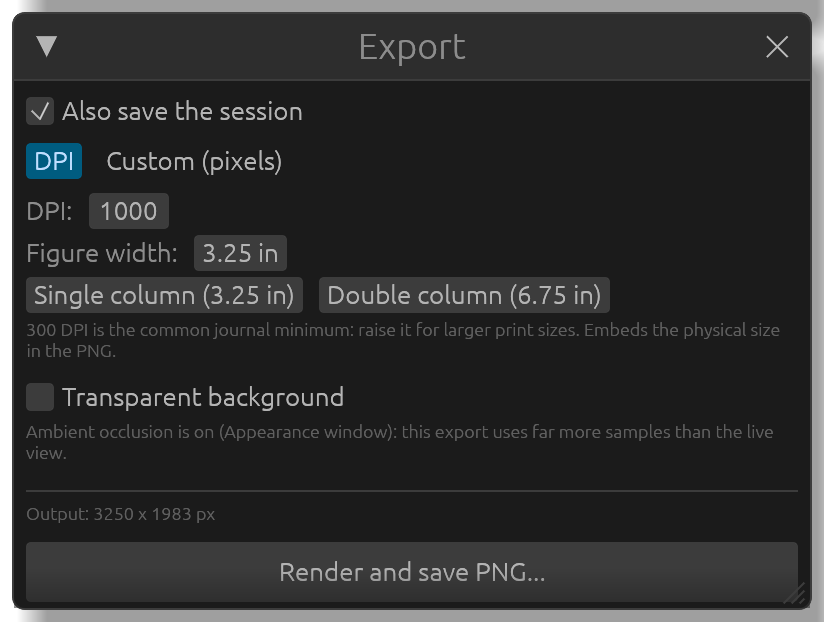
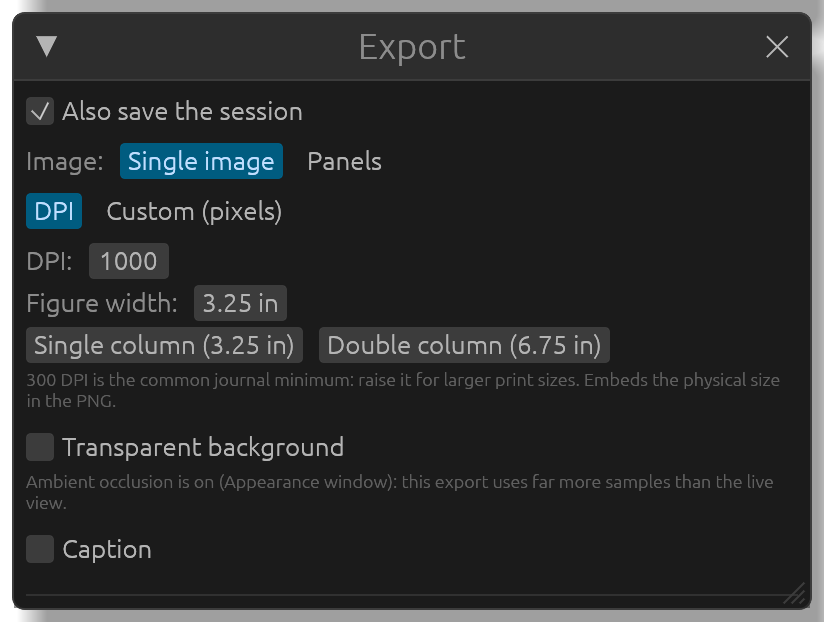
Guide: panel figures in Figures and videos; the caption font's license in every package
The Figures and videos chapter explains captions and panels (and panels
of several structures); Looking at a molecule, the views structures keep
and Keep the view; Sessions, that the figure is kept. The walkthrough
test checks the labels the chapter names and takes its two new
pictures; the Export window's picture is made again (no other picture
changed). Arimo-OFL.txt goes into the Windows, macOS and Linux packages,
and About names the font and its license.

Changed region(s): [[0.0303, 0.2138, 0.9709, 0.9469]]

diff --git a/crates/app/tests/guide.rs b/crates/app/tests/guide.rs
@@ -444,9 +444,72 @@ fn appearance_and_export() {
     settle(&mut guide);
     snap_tool_window(&mut guide, "appearance-window", "Appearance");
     click(&mut guide, "Export");
-    for label in ["Also save the session", "DPI", "Custom (pixels)", "Single column (3.25 in)", "Double column (6.75 in)", "Transparent background", "Render and save PNG...", "Render and save GIF..."] {
+    for label in ["Also save the session", "Image:", "Single image", "Panels", "DPI", "Custom (pixels)", "Single column (3.25 in)", "Double column (6.75 in)", "Transparent background", "Caption", "Render and save PNG...", "Render and save GIF..."] {
         sees(&guide, label);
     }
     settle(&mut guide);
     snap_tool_window(&mut guide, "export-window", "Export");
+}
+
+/// "Figures and videos", Panels: the OSLOs of ethane as a captioned grid.
+#[test]
+fn panels_of_orbitals() {
+    let mut guide = open_example("C2H6-OSLO-2CH3");
+    click(&mut guide, "Surfaces");
+    choose(&mut guide, "SCF orbitals", "OSLOs");
+    click(&mut guide, "Select all");
+    click(&mut guide, "Generate 9 orbital(s)");
+    frame(&mut guide, 0.45, 0.3, 0.75);
+    click(&mut guide, "Export");
+    click(&mut guide, "Panels");
+    for label in [
+        "Image:",
+        "Single image",
+        "Panels (9)",
+        "All surfaces",
+        "Captions",
+        "Full",
+        "Value and fragment",
+        "Text size:",
+        "Letters (a), (b), ...",
+        "Layout:",
+        "Automatic",
+        "Rows and columns",
+        "Panel shape:",
+        "Square",
+        "As the view",
+        "Gap:",
+        "Size:",
+        "Half page (3.25 in)",
+        "Full page (6.75 in)",
+        "Background:",
+        "White",
+        "Transparent",
+        "Render and save panels...",
+    ] {
+        sees(&guide, label);
+    }
+    assert!(guide.get_all(By::new().role(Role::ComboBox)).any(|n| n.value().as_deref() == Some("Add a panel")), "the Add a panel menu");
+    let captions = guide.state().panel_captions();
+    assert_eq!(captions[8], "OSLO 9 \u{b7} 1 CH3 + 2 CH3 \u{b7} FOLI 2.001");
+    click(&mut guide, "Value and fragment");
+    assert_eq!(guide.state().panel_captions()[8], "2.001 (CH3 + CH3)");
+    click(&mut guide, "Full");
+    // Only the Export window, so the picture shows it whole.
+    for window in ["Molecule", "Surfaces", "APOST-3D"] {
+        let ctx = guide.ctx.clone();
+        guide.state().set_window_collapsed(&ctx, window, true);
+    }
+    guide.run_steps(4);
+    assert!(guide.state().figure_preview_size().is_some(), "the preview is drawn");
+    settle(&mut guide);
+    snap_tool_window(&mut guide, "export-panels-window", "Export");
+    // The figure itself, as saved, scaled to the guide's width.
+    if let Some(dir) = images_dir() {
+        guide.state_mut().set_panel_figure(600, true, false);
+        let (w, h, pixels) = guide.state_mut().render_panel_figure().expect("the figure");
+        let image = image::RgbaImage::from_raw(w, h, pixels).unwrap();
+        let image = image::imageops::resize(&image, 1200, h * 1200 / w, image::imageops::FilterType::Lanczos3);
+        save(&dir, "panels-oslos", &image);
+    }
 }

diff --git a/crates/app/src/windows/about.rs b/crates/app/src/windows/about.rs
@@ -45,6 +45,12 @@ impl App {
                         .italics(),
                     );
                     ui.hyperlink_to("DOI: 10.1063/5.0206187", "https://doi.org/10.1063/5.0206187");
+                    ui.add_space(6.0);
+                    ui.label(
+                        egui::RichText::new("Figure captions use the Arimo font, by the Arimo Project Authors, under the SIL Open Font License 1.1, whose text comes with the program as Arimo-OFL.txt.")
+                            .small()
+                            .weak(),
+                    );
                     ui.add_space(8.0);
                     ui.separator();
                     ui.add_space(8.0);

diff --git a/docs/src/figures.md b/docs/src/figures.md
@@ -1,16 +1,44 @@
 # Figures and videos
 
-The **Export** window saves the current view, exactly as it is on screen (labels, values, legend, ambient occlusion and depth of field included), as a PNG image or as a looping animated GIF.
+The **Export** window saves the current view, exactly as it is on screen (labels, values, legend, ambient occlusion and depth of field included), as a PNG image, as a figure of several panels with captions, or as a looping animated GIF.
 
 <img class="window" src="images/export-window.png" alt="The Export window">
 
 ## Images
 
+With **Single image** chosen next to **Image:** (the default):
+
 - **DPI** (the default): give the resolution and the **Figure width:** in inches, or click **Single column (3.25 in)** or **Double column (6.75 in)**; the height follows the shape of the view. The physical size is stored in the PNG, so the figure comes in at the right size in a document. 300 DPI is the usual journal minimum.
 - **Custom (pixels)**: give the **Width:** and **Height:** in pixels, and a **Supersample:** factor (rendering at 2 or 4 times the size and scaling down smooths every edge).
 - **Transparent background**: no background, for putting the molecule on a slide or over another picture.
+- **Caption**: a caption below the image. Leave the field empty for the automatic one (the name of the surface shown, as in the panels below), or type your own; **Text size:** sets its size in points.
 
 The window shows the size of the image that will be made. Click **Render and save PNG...** and choose where to save it.
+
+## Panels: several orbitals in one figure
+
+Most figures of bonding analyses are grids of orbitals, all seen the same way, each with a caption: the OSLOs of a molecule with their FOLI, the effective fragment orbitals of a metal with their occupations. **Panels** makes such a figure in one step. Every panel is the current view with one surface shown alone, rendered exactly as a single image would be, so all the panels share the same orientation, zoom and look.
+
+<img src="images/panels-oslos.png" alt="The nine OSLOs of ethane as a 3 by 3 grid, each with its caption">
+
+1. Generate the orbitals you want (see [Orbitals and densities](orbitals.md)), turn and zoom the molecule as it should look in every panel.
+2. In **Export**, choose **Panels** next to **Image:**. Every surface of the structure becomes a panel, in the order of the **Surfaces** list. While **Panels** is chosen, a dashed frame in the view shows what a square panel holds.
+
+<img class="window" src="images/export-panels-window.png" alt="The Export window with Panels chosen: the preview of the figure, then the panels">
+
+3. The list under **Panels** sets the order (the arrows move a panel up or down, the cross removes it). **Add a panel** adds a surface again, or the structure as it is shown, and **All surfaces** adds every surface not in a panel yet.
+4. Each panel has a caption field. Left empty, it shows the automatic caption (in gray); type to give that panel your own text. With **Captions** ticked, the automatic caption is either **Full**, the name with its number ("OSLO 9 · 1 CH3 + 2 CH3 · FOLI 2.001", "EFO 10 α · 1 Fe · occ. 0.890"), or **Value and fragment**, the number with the fragments as papers often write it ("2.001 (CH3 + CH3)", "0.890 (Fe)"). Digits in chemical formulas are drawn as subscripts (CH₃), and an EFO the orbital file reproduces poorly says so ("fit 48%"). **Text size:** is in points; **Letters (a), (b), ...** adds a letter at the top left of every panel.
+5. **Layout:** is **Automatic** (about as many rows as columns: 3 x 3 for nine panels, 2 x 3 for five, the last row centered) or **Rows and columns**, set by hand; **Swap** turns a figure that runs across into one that runs down, or the reverse. **Panel shape:** is **Square** or **As the view**, and **Gap:** the space between panels, in percent of a panel's width.
+6. **Size:** is **DPI** (the resolution, 600 by default, and the **Figure width:**, the whole figure; **Half page (3.25 in)** and **Full page (6.75 in)** are the widths of one column and of a whole page in a two-column journal) or **Pixels** (the **Panel width:** of each panel). The text size in points follows the DPI.
+7. **Background:** is **White** (the default, whatever the view's background), **As the view**, or **Transparent**.
+
+The preview at the top of the window shows the figure as it will be saved, and follows every change: rotate the molecule, edit a caption, change the layout, and it is drawn again a moment later. Click it to see it larger in **Figure preview**. Then click **Render and save panels...** and choose where to save it. A large figure takes a few seconds: every panel is rendered at full size with ambient occlusion.
+
+When a value of the APOST-3D results is shown on the molecule, its legend is drawn once below the panels if it is the same in all of them, and in each panel otherwise.
+
+### Panels of several structures
+
+**Add a panel** also offers the other open structures, with their surfaces or as they are shown, to put related molecules side by side. Each structure is seen with its own view, the one it had when you last left it: make it the active one in the **Molecule** window to turn or zoom it. To see them all the same way, tick **Keep the view when switching structures** in the **Molecule** window: every structure then has the orientation and zoom of the active one, each centered on itself, so molecules of the same family compare at the same scale. The same orientation shows the molecules alike only when their coordinates are oriented alike in their files.
 
 ## Turning videos (GIF)
 
@@ -18,4 +46,4 @@ Under **Animation (GIF)**, give the **Width:** in pixels, the **Duration:** of o
 
 ## The session beside each figure
 
-With **Also save the session** ticked (the default), every export also writes a session next to the image: `figure.a3dview` next to `figure.png`. Opening it later gives back exactly the same picture, to change it or make it again at another size. See [Sessions](sessions.md).
+With **Also save the session** ticked (the default), every export also writes a session next to the image: `figure.a3dview` next to `figure.png`. Opening it later gives back exactly the same picture, to change it or make it again at another size; for a figure of panels, it keeps the panels, their captions and the layout too. See [Sessions](sessions.md).

diff --git a/README.md b/README.md
@@ -2,7 +2,7 @@
 
 <h3 align="center">A molecular, orbital and density viewer for APOST-3D</h3>
 
-<p align="center">APOST3Dview shows the chemical bonding analyses of <a href="https://github.com/mgimferrer/APOST3D">APOST-3D</a> on the molecule (fragments, charges, bond orders, local spin, effective oxidation states, effective fragment orbitals and OSLOs, the IQA energy decomposition), draws orbitals and densities straight from <code>.fchk</code> and <code>.molden</code> files, and makes publication figures and videos of them. Free, for Windows, macOS and Linux.</p>
+<p align="center">APOST3Dview shows the chemical bonding analyses of <a href="https://github.com/mgimferrer/APOST3D">APOST-3D</a> on the molecule (fragments, charges, bond orders, local spin, effective oxidation states, effective fragment orbitals and OSLOs, the IQA energy decomposition), draws orbitals and densities straight from <code>.fchk</code> and <code>.molden</code> files, and makes publication figures of them (single pictures, or captioned panels of several orbitals in one image) and videos. Free, for Windows, macOS and Linux.</p>
 
 <p align="center"><b><a href="https://mgimferrer.github.io/APOST3Dview/">User guide</a></b> · <a href="https://mgimferrer.github.io/APOST3Dview/tour.html">Five-minute tour</a> · <a href="https://github.com/mgimferrer/APOST3Dview/issues">Report a problem</a></p>
 

diff --git a/docs/src/molecule.md b/docs/src/molecule.md
@@ -51,4 +51,4 @@ Each measurement is drawn as a dashed line with its value beside the bond, or in
 
 ## Several structures
 
-Open as many files as you like: the **Molecule** window lists them, and clicking a name shows that structure. The view is kept when the two structures have the same geometry (two files of the same molecule), and reframed otherwise. Hidden atoms, the selection and measurements belong to each structure; the look of the scene ([Appearance](appearance.md)) is shared by all.
+Open as many files as you like: the **Molecule** window lists them, and clicking a name shows that structure. Each structure keeps its own view: going back to one gives back the view it was left with, and a structure shown for the first time is framed. The view is kept as it is between two structures with the same geometry (two files of the same molecule). With **Keep the view when switching structures** ticked, the next structure is seen with the same orientation and zoom, centered on it: handy for comparing related molecules, or for [panels of several structures](figures.md#panels-of-several-structures). Hidden atoms, the selection and measurements belong to each structure; the look of the scene ([Appearance](appearance.md)) is shared by all.

diff --git a/docs/src/sessions.md b/docs/src/sessions.md
@@ -1,6 +1,6 @@
 # Sessions
 
-A session (`.a3dview`) keeps everything you set up: the files open, the structure shown, hidden atoms and bonds, bonds created by hand and dashed bonds, measurements and where their labels are, the surfaces and how each is drawn, the APOST-3D values shown and their colors, the camera, and the look of the scene. Opening it gives back the same picture.
+A session (`.a3dview`) keeps everything you set up: the files open, the structure shown, hidden atoms and bonds, bonds created by hand and dashed bonds, measurements and where their labels are, the surfaces and how each is drawn, the APOST-3D values shown and their colors, the camera (and the view each structure was left with), the look of the scene, and the figure set up in **Export** (its panels, captions and layout). Opening it gives back the same picture.
 
 - **Save** in the toolbar, then **Save session** (<kbd>Cmd</kbd>+<kbd>S</kbd>, or <kbd>Ctrl</kbd>+<kbd>S</kbd>), saves it; the first time it asks where. **Save session as...** saves it under another name. The window's title names the open session.
 - Open a session like any other file. It replaces everything open.
